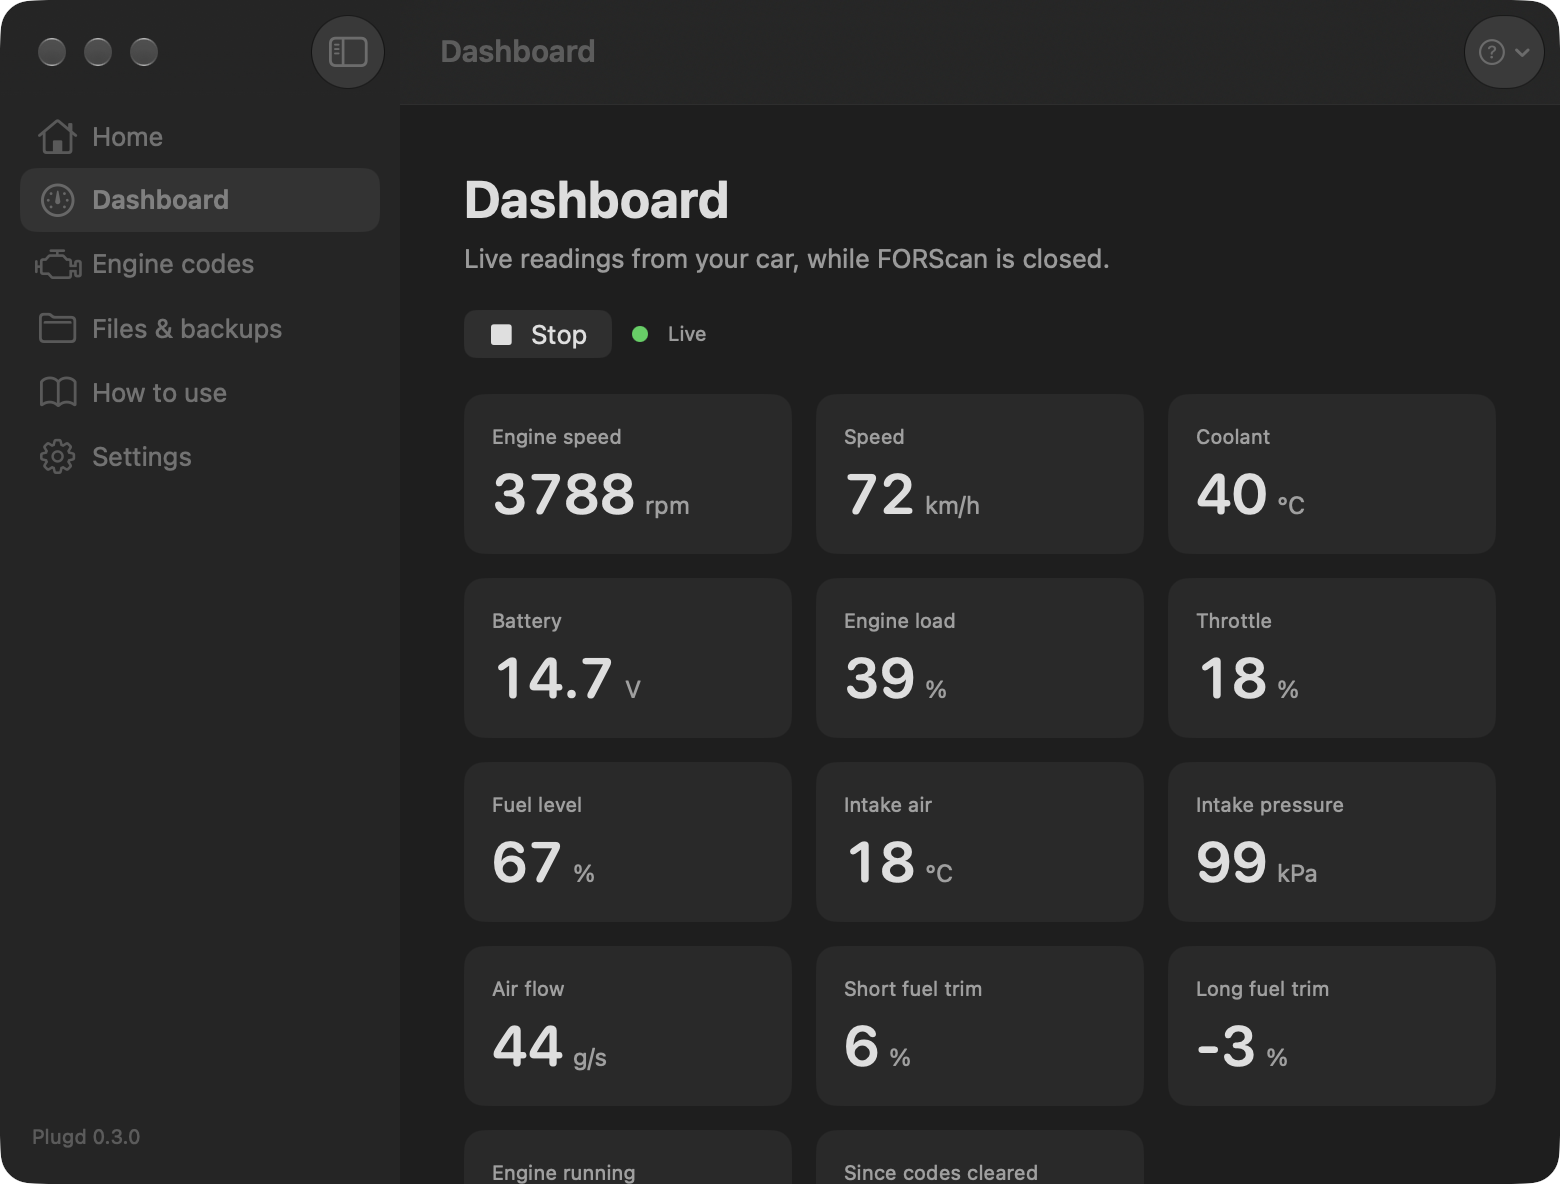
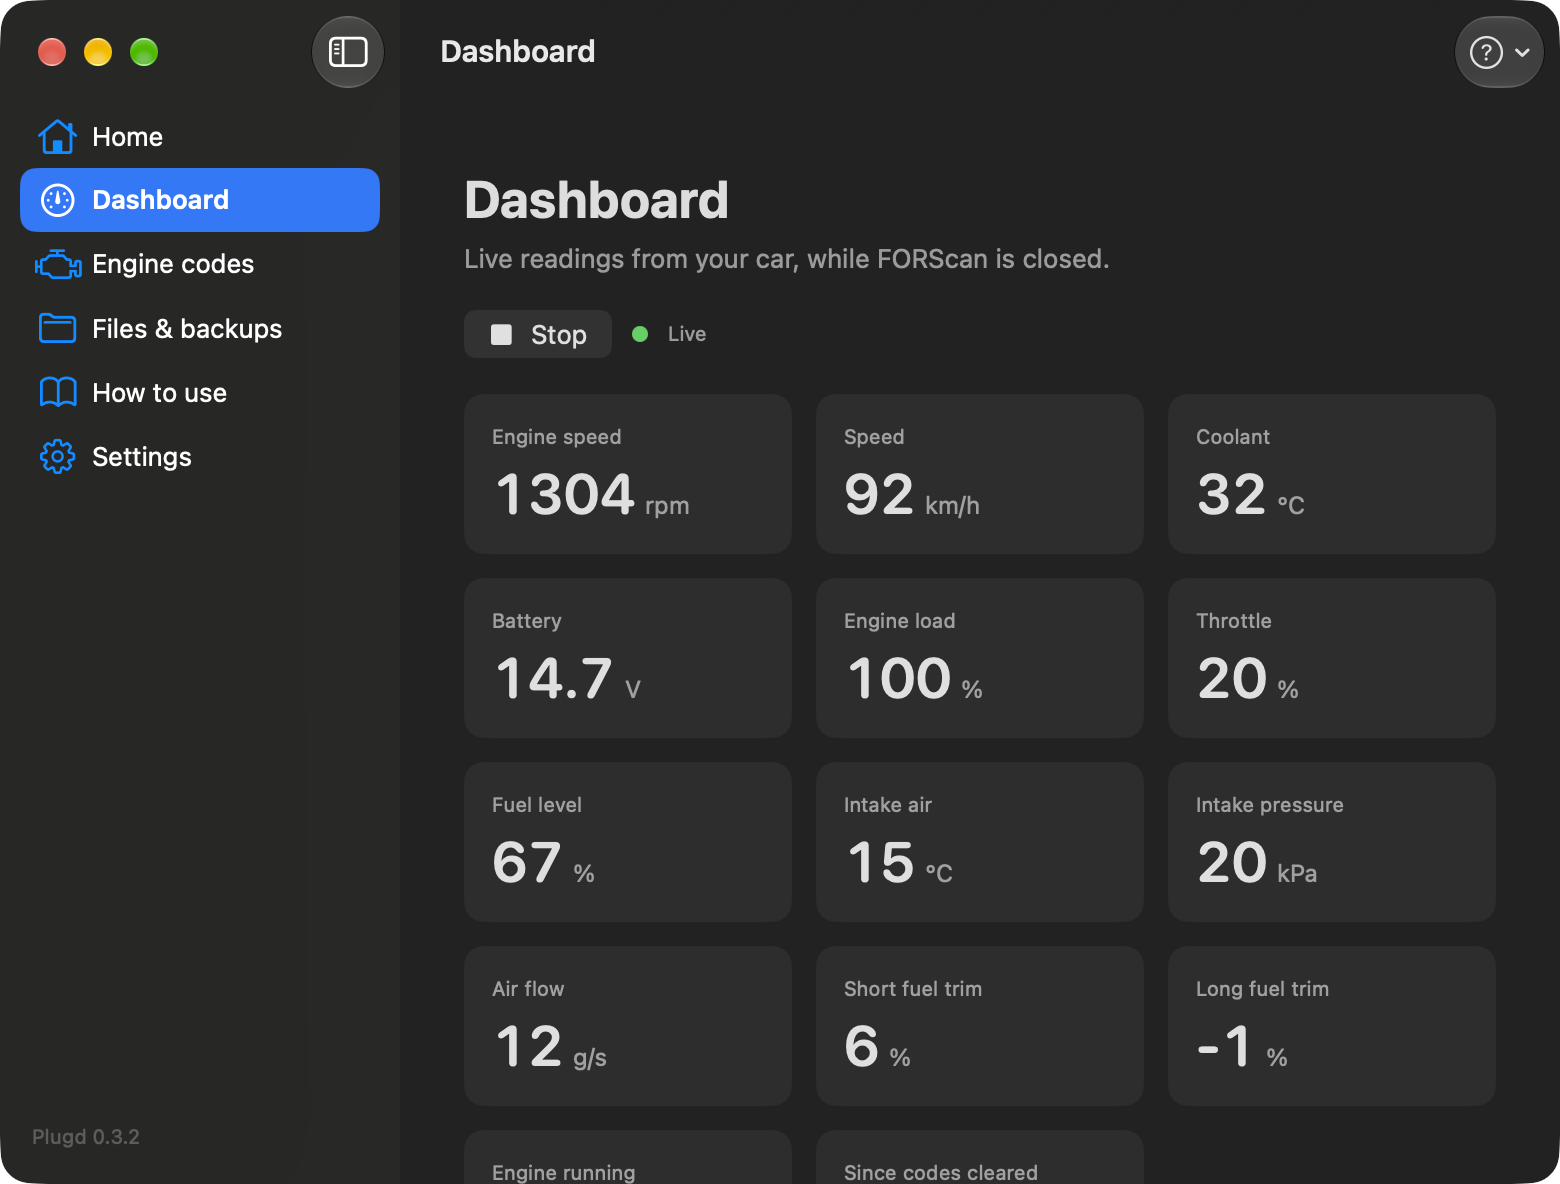
0.3.2: Intel Macs, Wine SHA-256 check, user name and VIN removed from reports, new screenshots

diff --git a/Sources/Features.swift b/Sources/Features.swift
@@ -212,8 +212,16 @@ extension Engine {
             .first { FileManager.default.fileExists(atPath: $0.path) }
     }
 
-    nonisolated static func redact(_ text: String, secrets: [String]) -> String {
+    nonisolated static func redact(_ text: String, secrets: [String], user: String = NSUserName()) -> String {
         var t = text
+        // The Mac user name shows up in paths and in FORScan's "User name:" line.
+        if user.count >= 2 {
+            t = t.replacingOccurrences(of: #"\b"# + NSRegularExpression.escapedPattern(for: user) + #"\b"#,
+                                       with: "[user]", options: [.regularExpression, .caseInsensitive])
+        }
+        // VINs: 17 letters and digits (no I, O or Q), with at least one of each.
+        t = t.replacingOccurrences(of: #"\b(?=[A-HJ-NPR-Z0-9]*[A-HJ-NPR-Z])(?=[A-HJ-NPR-Z0-9]*[0-9])[A-HJ-NPR-Z0-9]{17}\b"#,
+                                   with: "[VIN]", options: .regularExpression)
         for s in secrets where s.count >= 8 { t = t.replacingOccurrences(of: s, with: "[removed]") }
         // FORScan logs the key as "Registry Key: …" and "Extended License key: …".
         t = t.split(separator: "\n", omittingEmptySubsequences: false).map { line in
@@ -226,11 +234,15 @@ extension Engine {
     nonisolated static func redactSelfTest() -> [String] {
         let key = String(repeating: "Ab3+", count: 20), id = "KLZwFAKEid123456"
         let log = "12:00 [GUI] Registry Key: \(key)\n12:01 [GUI] Extended License key: \(key)\nId=\(id) adapter ok\nother \(key)"
-        let out = redact(log, secrets: [key, id])
+            + "\nUser name: jdoe\nC:\\users\\jdoe\\AppData /Users/jdoe/Documents\nVIN: 1FAHP2E89DG123456 module 7E0"
+        let out = redact(log, secrets: [key, id], user: "jdoe")
         var fails: [String] = []
         if out.contains(key) || out.contains("Ab3+Ab3+") { fails.append("key left in report") }
         if out.contains(id) { fails.append("hardware id left in report") }
         if !out.contains("adapter ok") { fails.append("normal text removed") }
+        if out.contains("jdoe") { fails.append("user name left in report") }
+        if out.contains("1FAHP2E89DG123456") { fails.append("VIN left in report") }
+        if !out.contains("module 7E0") || !out.contains("/Users/[user]/Documents") { fails.append("normal text removed") }
         let reg = "[Software\\\\Astech\\\\FORScan] 1\n\"ExpirationDate\"=\"2026-12-18\"\n[Next]\n\"ExpirationDate\"=\"1999-01-01\"\n"
         let date = forscanRegistry(reg)["ExpirationDate"].flatMap(isoFormatter("yyyy-MM-dd").date)
         if date.map({ Calendar(identifier: .gregorian).component(.year, from: $0) }) != 2026 { fails.append("license date \(String(describing: date))") }

diff --git a/docs/index.html b/docs/index.html
@@ -4,7 +4,7 @@
 <meta charset="utf-8">
 <meta name="viewport" content="width=device-width, initial-scale=1">
 <title>Plugd: FORScan on Mac</title>
-<meta name="description" content="Run FORScan on an Apple Silicon Mac. Free, no Windows, no virtual machine. Reads and As-Built writes tested on a real Ford.">
+<meta name="description" content="Run FORScan on a Mac (Apple Silicon or Intel). Free, no Windows, no virtual machine. Reads and As-Built writes tested on a real Ford.">
 <link rel="icon" href="img/icon.png?v=0.3.2">
 <link rel="preconnect" href="https://fonts.googleapis.com">
 <link href="https://fonts.googleapis.com/css2?family=Geist:wght@400;500;600;700&family=Geist+Mono:wght@400;500&display=swap" rel="stylesheet">
@@ -99,17 +99,17 @@ footer p + p { margin-top: 8px; }
     <img class="hero-icon" src="img/icon.png?v=0.3.2" alt="Plugd app icon">
     <span class="pill"><b>●</b> Reads and As-Built writes tested on a real Ford</span>
     <h1>FORScan on your Mac.<br>No Windows needed.</h1>
-    <p>Plugd sets up everything FORScan needs on an Apple Silicon Mac, finds your OBD adapter, and opens FORScan with one click. Free.</p>
+    <p>Plugd sets up everything FORScan needs on your Mac, finds your OBD adapter, and opens FORScan with one click. Free.</p>
     <div class="cta">
       <a class="btn primary" href="https://github.com/lncch/Plugd/releases/latest/download/Plugd.dmg">Download for Mac</a>
       <a class="btn" href="https://github.com/lncch/Plugd">View source</a>
     </div>
-    <p class="req">Apple Silicon · macOS 14 or later · USB OBD adapter · v0.3.1</p>
+    <p class="req">Apple Silicon or Intel · macOS 14 or later · USB OBD adapter · v0.3.2</p>
   </header>
 
   <div class="shots">
-    <figure><img src="img/main.png?v=0.3.0b" alt="Plugd Home page with adapter status and Open FORScan button"><figcaption>Home: your adapter, FORScan and backups at a glance</figcaption></figure>
-    <figure><img src="img/dashboard.png?v=0.3.1" alt="Plugd Dashboard with live engine speed, speed, coolant and battery readings"><figcaption>Dashboard: live readings while FORScan is closed</figcaption></figure>
+    <figure><img src="img/main.png?v=0.3.2b" alt="Plugd Home page with adapter status and Open FORScan button"><figcaption>Home: your adapter, FORScan and backups at a glance</figcaption></figure>
+    <figure><img src="img/dashboard.png?v=0.3.2" alt="Plugd Dashboard with live engine speed, speed, coolant and battery readings"><figcaption>Dashboard: live readings while FORScan is closed</figcaption></figure>
   </div>
 </div>
 

diff --git a/Sources/Engine.swift b/Sources/Engine.swift
@@ -10,6 +10,8 @@ enum StepState: Equatable {
 final class Engine: ObservableObject {
     // Wine build verified with FORScan and a real car on 2026-10-18.
     static let wineURL = URL(string: "https://github.com/Gcenx/macOS_Wine_builds/releases/download/11.18/wine-staging-11.18-osx64.tar.xz")!
+    /// SHA-256 that GitHub publishes for that file; a download that doesn't match is never unpacked.
[1 lines of base64/hex data omitted]
     nonisolated static let forscanPage = URL(string: "https://forscan.org/download.html")!
     static let portPrefixes = ["cu.usbserial", "cu.wchusbserial", "cu.usbmodem", "cu.SLAB_USBtoUART"]
 
@@ -177,6 +179,13 @@ final class Engine: ObservableObject {
         let tarball = downloads.appendingPathComponent("wine.tar.xz")
         if !fm.fileExists(atPath: wineBin.appendingPathComponent("wine").path) {
             try await download(Self.wineURL, to: tarball, label: "Downloading Wine") { self.wine = .running($0) }
+            wine = .running("Checking Wine…")
+            let sum = await Self.run("/usr/bin/shasum", ["-a", "256", tarball.path])
+            guard sum.out.hasPrefix(Self.wineSHA256 + " ") else {
+                try? fm.removeItem(at: tarball)
+                wine = .failed("Wine download didn't match")
+                throw Fail("Wine SHA-256 mismatch: \(sum.out.prefix(64))")
+            }
             wine = .running("Unpacking Wine…")
             let wineDir = base.appendingPathComponent("wine")
             try fm.createDirectory(at: wineDir, withIntermediateDirectories: true)

diff --git a/Sources/App.swift b/Sources/App.swift
@@ -126,7 +126,7 @@ struct PlugdApp: App {
 
     static func showAbout() {
         let text = """
-        Runs FORScan on Apple Silicon Macs with Wine.
+        Runs FORScan on Macs with Wine.
         Open source under the MIT license.
         github.com/lncch/Plugd
 
@@ -564,7 +564,9 @@ struct SetupPanel: View {
                     .fixedSize(horizontal: false, vertical: true)
             }
             VStack(alignment: .leading, spacing: 12) {
+                #if arch(arm64)  // Intel Macs run Wine directly; Rosetta is only for Apple Silicon.
                 StepRow(title: "Rosetta", detail: "Apple's tool to run Intel apps", state: engine.rosetta)
+                #endif
                 StepRow(title: "Wine", detail: "Runs Windows programs (190 MB download)", state: engine.wine)
                 StepRow(title: "FORScan", detail: "Downloaded from forscan.org", state: engine.forscan)
             }

diff --git a/README.md b/README.md
@@ -4,7 +4,7 @@
 
 <p align="center">FORScan on a Mac, for free.</p>
 
-<p align="center"><a href="https://github.com/lncch/Plugd/releases/latest/download/Plugd.dmg"><b>Download for Mac</b></a> · macOS 14+ · Apple Silicon · USB OBD adapter</p>
+<p align="center"><a href="https://github.com/lncch/Plugd/releases/latest/download/Plugd.dmg"><b>Download for Mac</b></a> · macOS 14+ · Apple Silicon or Intel · USB OBD adapter</p>
 
 <p align="center"><img src="docs/img/setup.png" width="420" alt="Setup screen"> <img src="docs/img/main.png" width="420" alt="Main screen"></p>
 
@@ -40,11 +40,11 @@ Back up before you change anything, and keep a battery charger on the car while 
 |---|---|---|---|
 | 2023 Ford Taurus, Middle East (Mondeo EVOS, 2021 MY) | cheap ELM327 v1.5 clone, CH340 chip, HS/MS switch | 22+ modules | yes, checked in the car |
 
-That's one car and one adapter. If you try it on yours, open an issue and tell me how it went.
+That's one car and one adapter. Intel Macs are new in 0.3.2: I've only tested the Intel version through Rosetta on my M-series Mac, not on a real Intel Mac. If you try it on yours, open an issue and tell me how it went.
 
 ## Build it yourself
 
-You need the Xcode command line tools and `brew install innoextract dylibbundler`. Then:
+You need the Xcode command line tools and `brew install innoextract dylibbundler`. The first build also runs `tools/innoextract-x86.sh`, which fetches the Intel half of innoextract (hash-checked). Then:
 
     ./build.sh
 
